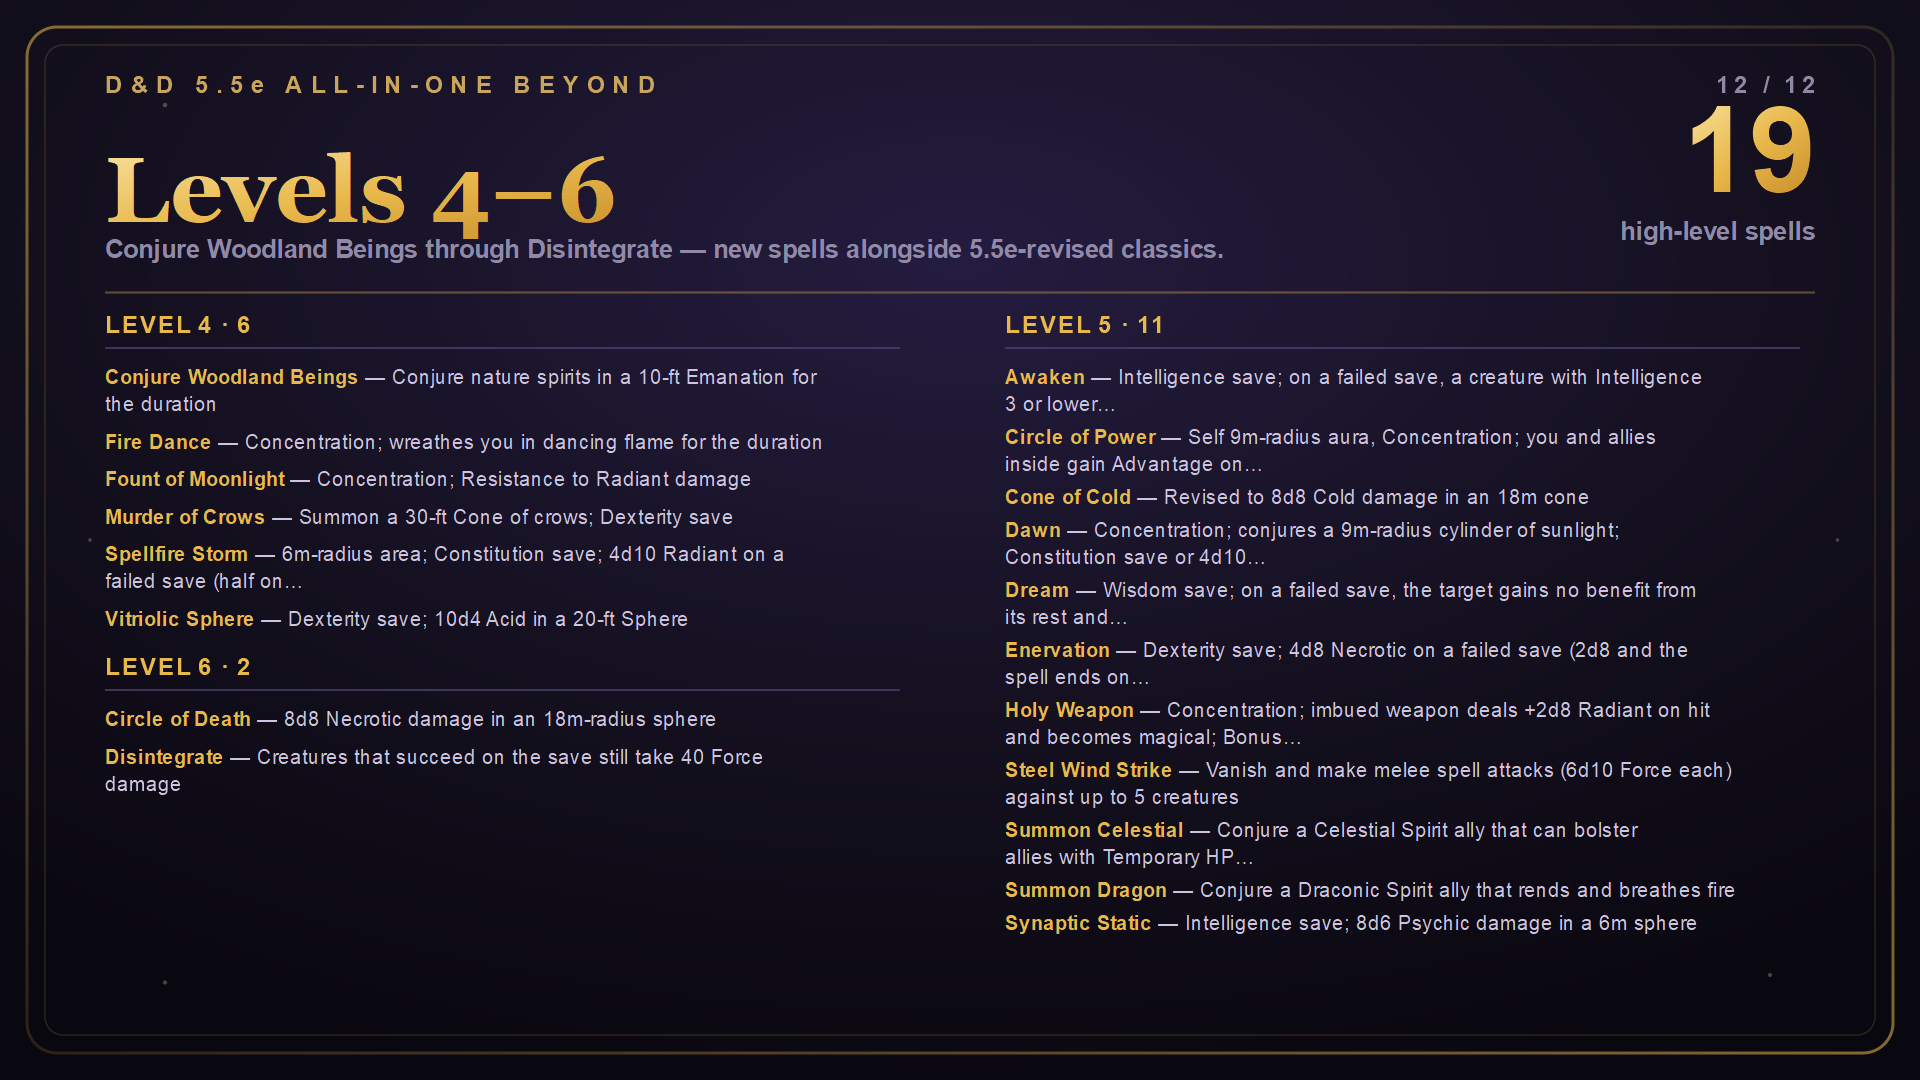
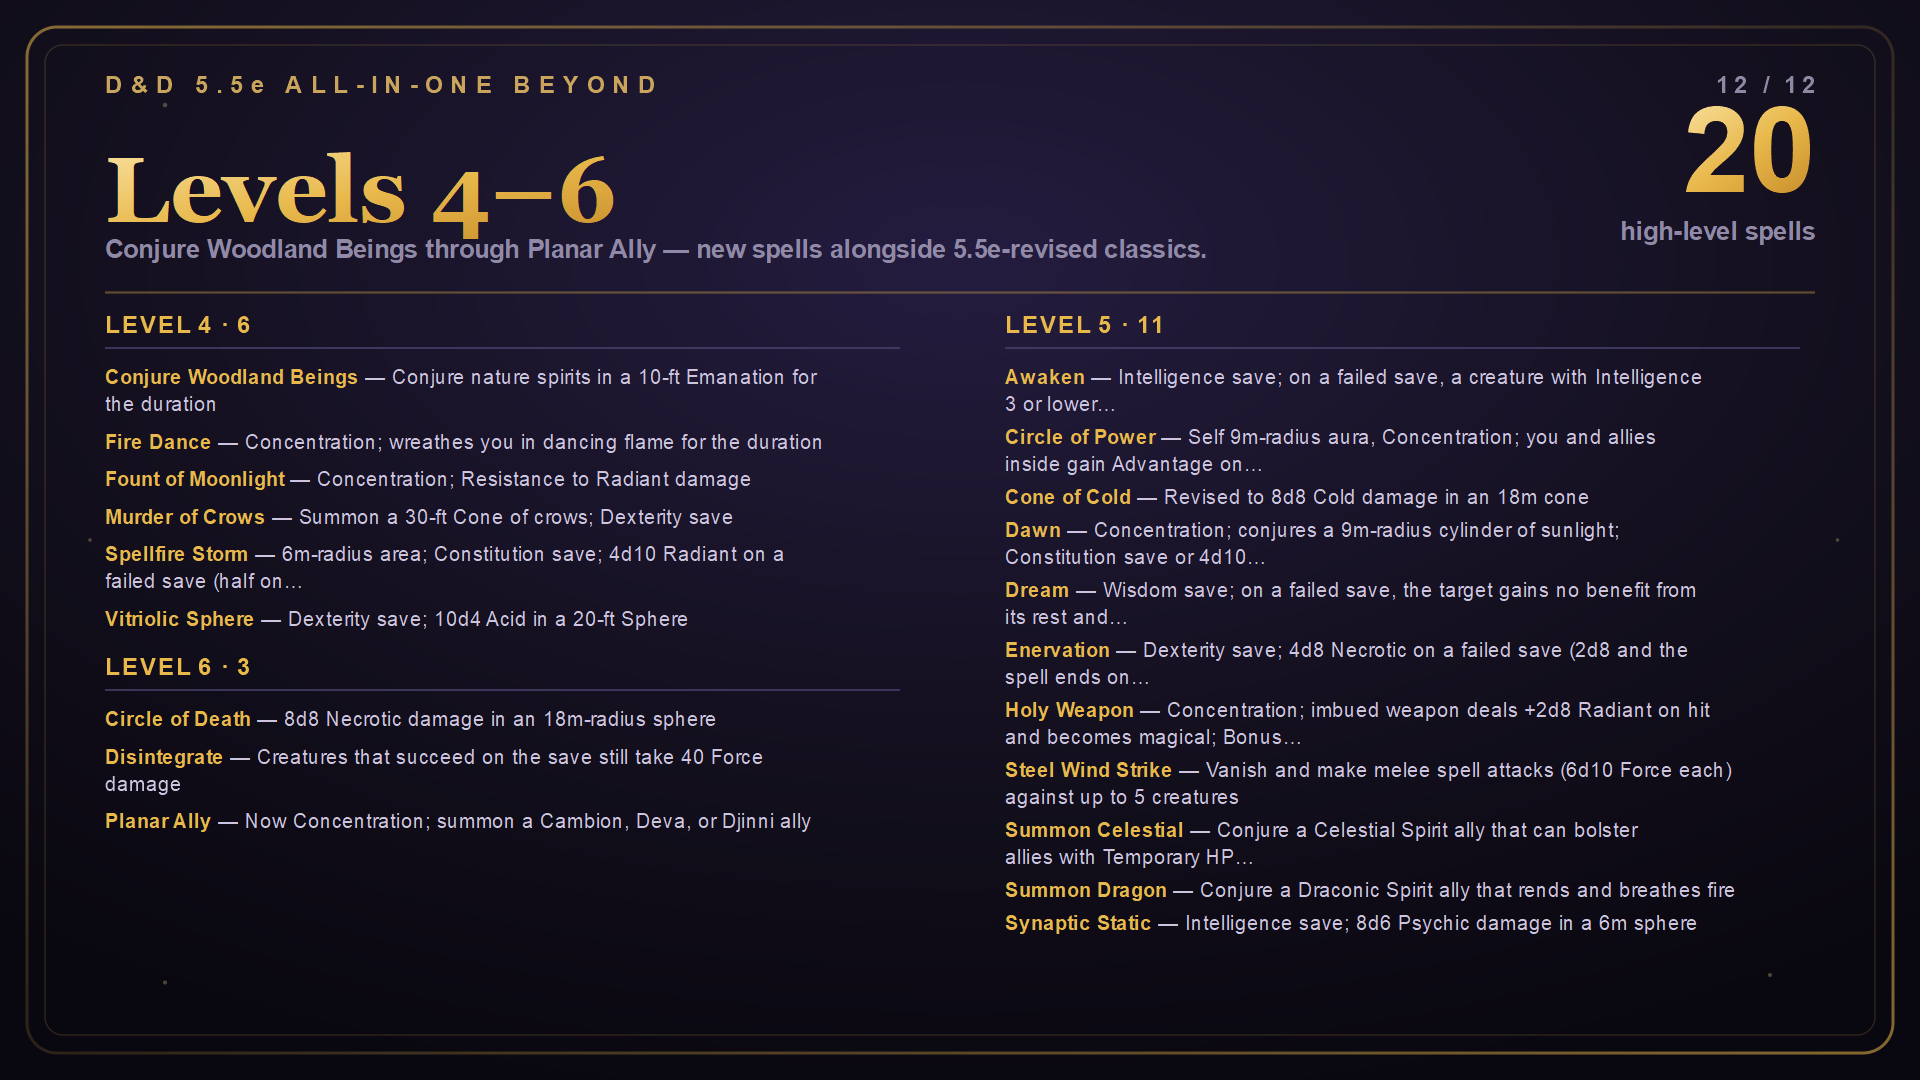
docs(spells): count Planar Ally among the revised spells
Planar Ally now requires Concentration, so list it under Level 6 in the three
READMEs and raise the spell tally to 103.

Changed region(s): [[0.0625, 0.7333, 0.4375, 0.7639], [0.2812, 0.2139, 0.625, 0.2444], [0.875, 0.0917, 0.9375, 0.1833]]

diff --git a/README_Modio.html b/README_Modio.html
@@ -94,7 +94,7 @@
   <li><strong>Level 3:</strong> Ashardalon's Stride, Astral Flood, Aura of Vitality, Bestow Curse, Cacophonic Shield, Conjure Barrage, Crusader's Mantle, Elemental Exhalation, Laeral's Silver Lance, Lightning Arrow, Murmurs of Doom, Phantom Steed, Summon Fey, Tidal Wave, Trollblood Infusion, Void Strike.</li>
   <li><strong>Level 4:</strong> Conjure Woodland Beings, Fire Dance, Fount of Moonlight, Murder of Crows, Spellfire Storm, Vitriolic Sphere.</li>
   <li><strong>Level 5:</strong> Awaken, Circle of Power, Cone of Cold, Dawn, Dream, Enervation, Holy Weapon, Steel Wind Strike, Summon Celestial, Summon Dragon, Synaptic Static.</li>
-  <li><strong>Level 6:</strong> Circle of Death, Disintegrate.</li>
+  <li><strong>Level 6:</strong> Circle of Death, Disintegrate, Planar Ally.</li>
 </ul>
 
 <h2>Items</h2>

diff --git a/README.md b/README.md
@@ -104,7 +104,7 @@ Acid Splash, Blade Ward, Blood Bolt, Booming Blade, Bursting Sinew, Finger Guns,
 - Level 3: Ashardalon's Stride, Astral Flood, Aura of Vitality, Bestow Curse, Cacophonic Shield, Conjure Barrage, Crusader's Mantle, Elemental Exhalation, Laeral's Silver Lance, Lightning Arrow, Murmurs of Doom, Phantom Steed, Summon Fey, Tidal Wave, Trollblood Infusion, Void Strike.
 - Level 4: Conjure Woodland Beings, Fire Dance, Fount of Moonlight, Murder of Crows, Spellfire Storm, Vitriolic Sphere.
 - Level 5: Awaken, Circle of Power, Cone of Cold, Dawn, Dream, Enervation, Holy Weapon, Steel Wind Strike, Summon Celestial, Summon Dragon, Synaptic Static.
-- Level 6: Circle of Death, Disintegrate.
+- Level 6: Circle of Death, Disintegrate, Planar Ally.
 
 ## Items
 
